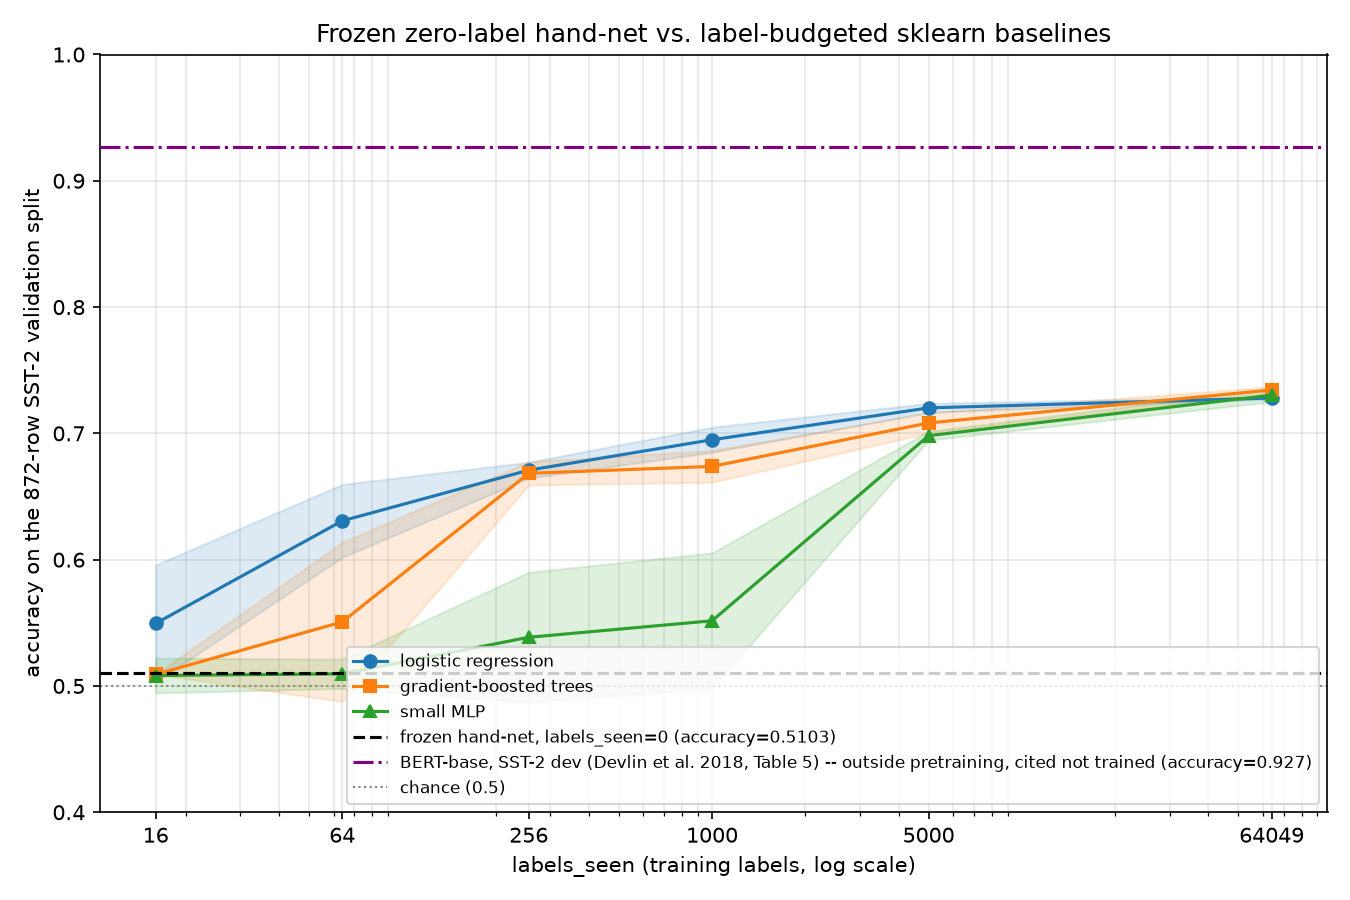
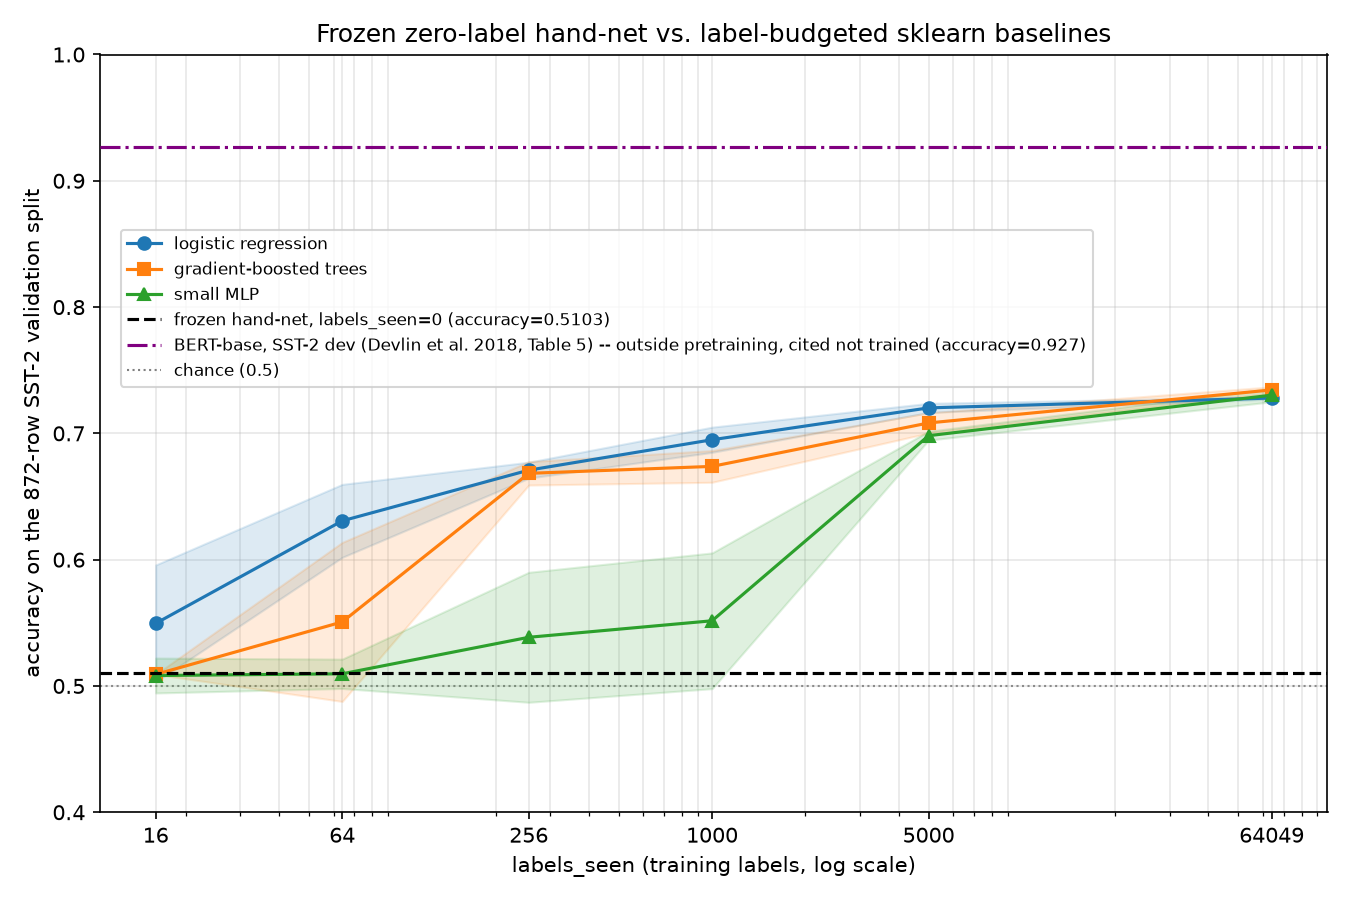
Move results chart legend off the y~0.5 reference lines
The legend sat at lower right, overlapping the frozen hand-net and
chance lines at accuracy~0.5 -- the most important comparison on the
plot. Anchor it instead in the empty band between the BERT-base
reference line (0.927) and the baseline curves' rise, which stays
under 0.68 through that x range. No rescoring: only the plot script
and regenerated figures/results.png change.

Changed region(s): [[0.2489, 0.7156, 0.9644, 0.9022], [0.0933, 0.2489, 0.8089, 0.4356], [0.6222, 0.84, 0.9644, 0.8711]]

diff --git a/scripts/plot_results.py b/scripts/plot_results.py
@@ -131,7 +131,10 @@ def main() -> int:
     ax.set_title("Frozen zero-label hand-net vs. label-budgeted sklearn baselines")
     ax.set_ylim(0.4, 1.0)
     ax.grid(True, which="both", alpha=0.3)
-    ax.legend(loc="lower right", fontsize=8)
+    # Anchored below the BERT-base reference line (0.927, only ~0.07 above the
+    # y=1.0 axes top -- too little headroom for the legend box) and above the
+    # baseline curves' rise, which stays under 0.68 through this x range.
+    ax.legend(loc="upper left", bbox_to_anchor=(0.01, 0.78), fontsize=8)
 
     OUT_PATH.parent.mkdir(parents=True, exist_ok=True)
     fig.tight_layout()
